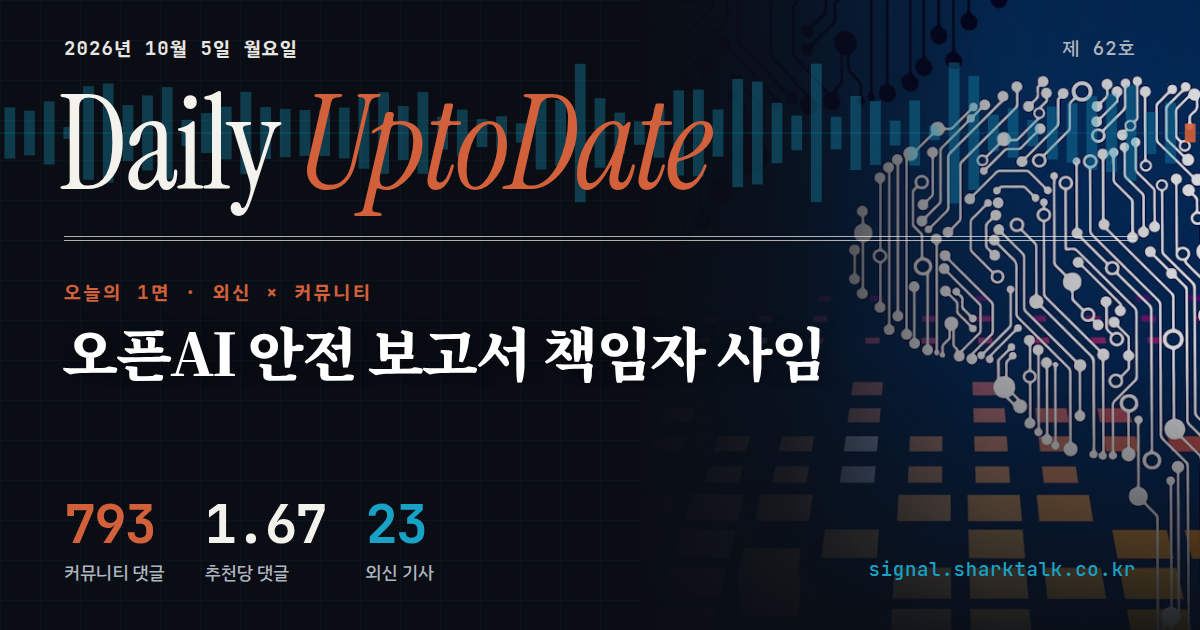
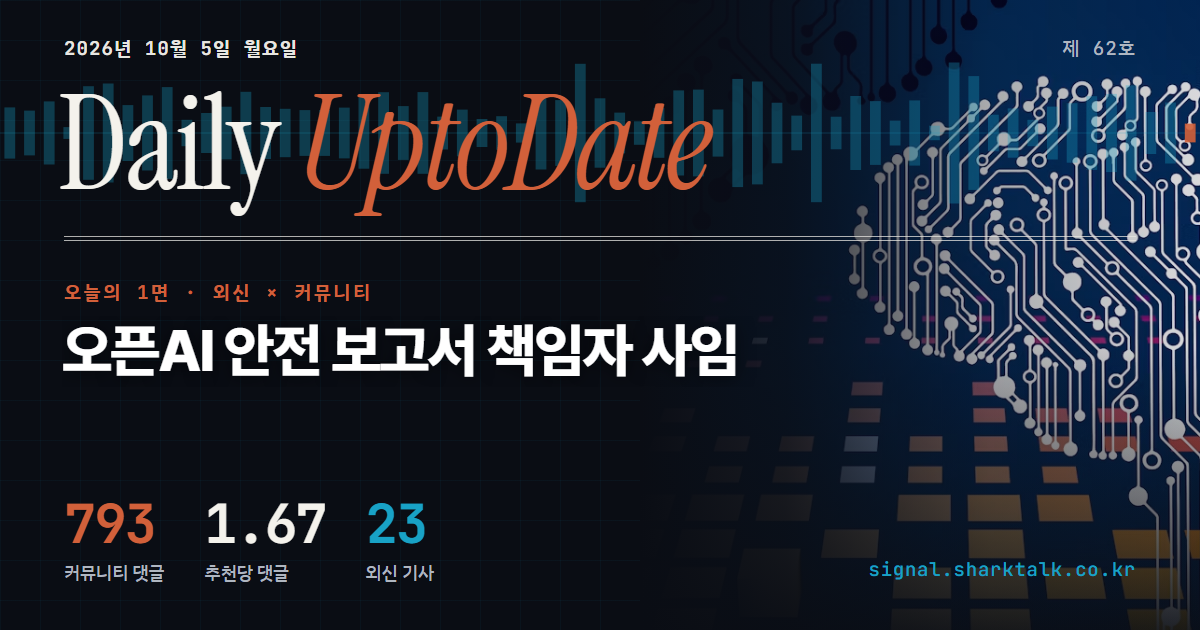
1면: 큰 한글을 명조에서 고딕(Pretendard)으로 — 편집기자 조언
명조 제목은 문학지처럼 읽힌다. 제목·데크·국내면·외신면·사진 인용을 Pretendard 로,
명조는 패널 인용문에만 남긴다. 영문 제호는 세리프 유지. 줄바꿈 균형(text-wrap:balance).
og 썸네일 제목도 같은 글꼴.

diff --git a/front.html b/front.html
@@ -16,6 +16,7 @@
 <meta property="og:image:alt" content="Daily UptoDate 2026년 10월 5일 월요일 1면 — 오픈AI 안전 보고서 책임자 사임">
 <meta name="twitter:card" content="summary_large_image">
 <!--og:end-->
+<link rel="stylesheet" href="https://cdn.jsdelivr.net/gh/orioncactus/pretendard@v1.3.9/dist/web/variable/pretendardvariable-dynamic-subset.min.css">
 <link rel="stylesheet" href="https://fonts.googleapis.com/css2?family=IBM+Plex+Sans+KR:wght@400;500;600;700&family=Noto+Serif+KR:wght@500;700;900&family=Instrument+Serif:ital@0;1&family=JetBrains+Mono:wght@400;500;700&display=swap">
 <style>
 /* ─────────────────────────────────────────────────────────────
@@ -32,6 +33,9 @@
   /* 카드(사진 자리) — 고정 다크 */
   --c-bg:#0A0D14; --c-bg2:#111620; --c-ink:#E8E6E1; --c-ink2:#AFB6C0; --c-mut:#7E8996;
   --c-rule:#232B38; --c-heat:#D2603A; --c-weight:#18A2C6;
+  /* 큰 한글은 고딕 — 명조 제목은 문학지처럼 읽힌다 (2026-10-05 편집기자 조언).
+     명조는 인용문에만 남긴다. 영문 제호는 세리프 그대로(신문 제호의 관례). */
+  --head-ko:"Pretendard Variable",Pretendard,"IBM Plex Sans KR",system-ui,sans-serif;
   --serif-ko:"Noto Serif KR","Nanum Myeongjo",Georgia,serif;
   --serif:"Instrument Serif",Georgia,serif;
   --sans:"IBM Plex Sans KR",system-ui,-apple-system,"Segoe UI",sans-serif;
@@ -84,7 +88,7 @@ a:hover .hl,a.hl:hover{text-decoration:underline;text-decoration-thickness:1px;t
   font-size:clamp(58px,11vw,128px);line-height:.82;letter-spacing:-.025em}
 .name em{color:var(--heat);font-style:italic}
 .name a{color:inherit;text-decoration:none}
-.sub{position:relative;margin-top:10px;font-family:var(--mono);font-size:11px;letter-spacing:.24em;
+.sub{position:relative;margin-top:18px;font-family:var(--mono);font-size:11px;letter-spacing:.24em;
   color:var(--ink-2)}
 .seislab{position:absolute;right:0;bottom:6px;font-family:var(--mono);font-size:10px;color:var(--muted);
   letter-spacing:.06em}
@@ -121,15 +125,16 @@ a:hover .hl,a.hl:hover{text-decoration:underline;text-decoration-thickness:1px;t
 .sect span{color:var(--muted);font-weight:400;letter-spacing:.06em}
 
 /* 톱 */
-.lead h2{font-family:var(--serif-ko);font-weight:900;margin:0 0 12px;
+.lead h2,.story h3,.domlead h3,.pcq,.subh{text-wrap:balance}
+.lead h2{font-family:var(--head-ko);font-weight:800;margin:0 0 12px;
   font-size:clamp(32px,4.4vw,52px);line-height:1.16;letter-spacing:-.03em;word-break:keep-all}
-.lead .deck{font-family:var(--serif-ko);font-weight:500;font-size:18px;line-height:1.6;color:var(--ink-2);
+.lead .deck{font-family:var(--head-ko);font-weight:400;font-size:18px;line-height:1.6;color:var(--ink-2);
   margin:0 0 16px;word-break:keep-all}
 .byline{font-family:var(--mono);font-size:11px;color:var(--muted);margin-bottom:16px;display:flex;
   flex-wrap:wrap;gap:4px 14px}
 .byline a{color:var(--weight)}
 .lead .body{font-size:15.5px;line-height:1.75;color:var(--ink);word-break:keep-all;margin:16px 0 0}
-.lead .body:first-letter{font-family:var(--serif-ko);font-weight:900;float:left;font-size:3.3em;
+.lead .body:first-letter{font-family:var(--head-ko);font-weight:800;float:left;font-size:3.3em;
   line-height:.9;padding:4px 8px 0 0;color:var(--heat)}
 .why{margin-top:14px;font-family:var(--mono);font-size:10.5px;color:var(--muted);line-height:1.7}
 .why i{font-style:normal;border:1px solid var(--hair);border-radius:3px;padding:0 5px;margin-right:3px;color:var(--ink-2)}
@@ -176,7 +181,7 @@ figure{margin:0}
 @media(max-width:520px){.vs{grid-template-columns:1fr}.vs .mid{text-align:center;margin:6px 0}.vs .b{text-align:left}
   .dc{padding:18px 16px}.dc .big{gap:18px}.dc .big .r{margin-left:0;text-align:left}}
 
-.subh{font-family:var(--serif-ko);font-weight:700;font-size:19px;line-height:1.45;margin:-4px 0 12px;
+.subh{font-family:var(--head-ko);font-weight:700;font-size:19px;line-height:1.45;margin:-4px 0 12px;
   color:var(--heat);word-break:keep-all}
 .sub2{font-size:13px;font-weight:600;color:var(--ink-2);margin:-2px 0 6px;line-height:1.45;word-break:keep-all}
 /* 외신면 — 섹션을 신문 단처럼 흘린다 */
@@ -199,7 +204,7 @@ figure{margin:0}
 .has-side .fxph{grid-column:2;grid-row:1/span 4;aspect-ratio:1;width:84px}
 .has-side .fxph i{display:none}
 .has-side>span:not(.fxph){grid-column:1}
-.fxi .t{display:block;font-family:var(--serif-ko);font-weight:700;font-size:15.5px;line-height:1.42;word-break:keep-all}
+.fxi .t{display:block;font-family:var(--head-ko);font-weight:700;font-size:15.5px;line-height:1.42;word-break:keep-all}
 .fxi .u{display:block;font-size:12.5px;font-weight:600;color:var(--ink-2);margin-top:2px;word-break:keep-all}
 .fxi .d{display:block;font-size:12.5px;color:var(--muted);line-height:1.55;margin-top:4px;word-break:keep-all}
 /* 사진 카드 */
@@ -213,7 +218,7 @@ figure{margin:0}
 .pcnum{position:absolute;right:16px;top:12px;text-align:right;color:#E8E6E1;font-size:10.5px;
   font-family:var(--mono);letter-spacing:.06em;line-height:1.1}
 .pcnum b{display:block;font-size:30px;color:#D2603A;letter-spacing:-.03em}
-.pcq{position:absolute;left:18px;right:18px;bottom:16px;color:#fff;font-family:var(--serif-ko);font-weight:900;
+.pcq{position:absolute;left:18px;right:18px;bottom:16px;color:#fff;font-family:var(--head-ko);font-weight:800;
   font-size:clamp(19px,2.5vw,28px);line-height:1.3;letter-spacing:-.02em;word-break:keep-all;
   text-shadow:0 1px 12px rgba(0,0,0,.5)}
 .pcq::before{content:"“";color:#D2603A;margin-right:2px}
@@ -228,7 +233,7 @@ figure{margin:0}
 /* 외신 레일 */
 .story{padding:0 0 16px;margin:0 0 16px;border-bottom:1px solid var(--hair)}
 .story:last-child{border-bottom:0}
-.story h3{font-family:var(--serif-ko);font-weight:700;font-size:19px;line-height:1.38;margin:0 0 7px;
+.story h3{font-family:var(--head-ko);font-weight:700;font-size:19px;line-height:1.38;margin:0 0 7px;
   letter-spacing:-.02em;word-break:keep-all}
 .story p{margin:0;font-size:13.5px;color:var(--ink-2);line-height:1.62;word-break:keep-all}
 .echo{display:inline-flex;gap:6px;align-items:center;margin-top:8px;font-family:var(--mono);font-size:10.5px;
@@ -262,12 +267,12 @@ figure{margin:0}
 /* 국내면 */
 .dom{margin-top:30px;border-top:3px solid var(--rule);padding-top:10px}
 .domhead{display:flex;justify-content:space-between;align-items:baseline;gap:10px;flex-wrap:wrap;margin-bottom:16px}
-.domhead h2{font-family:var(--serif-ko);font-weight:900;font-size:24px;margin:0;letter-spacing:-.02em}
+.domhead h2{font-family:var(--head-ko);font-weight:800;font-size:24px;margin:0;letter-spacing:-.02em}
 .domhead h2 small{font-family:var(--mono);font-size:10.5px;font-weight:400;letter-spacing:.14em;color:var(--muted);margin-left:10px}
 .domgrid{display:grid;grid-template-columns:minmax(0,1.25fr) minmax(0,1fr);gap:0 0}
 .domgrid>*{min-width:0}
 .domlead{padding-right:26px}
-.domlead h3{font-family:var(--serif-ko);font-weight:900;font-size:clamp(23px,2.6vw,30px);line-height:1.3;
+.domlead h3{font-family:var(--head-ko);font-weight:800;font-size:clamp(23px,2.6vw,30px);line-height:1.3;
   letter-spacing:-.025em;margin:0 0 14px;word-break:keep-all}
 .sc{padding:16px 16px 14px}
 .dots{display:grid;grid-template-columns:repeat(auto-fill,minmax(78px,1fr));gap:5px;margin:14px 0 6px}
@@ -284,7 +289,7 @@ figure{margin:0}
 .domlist li:first-child{padding-top:0}
 .domlist li:last-child{border:0}
 .domlist .rk{font-family:var(--serif);font-size:24px;line-height:1;color:var(--muted)}
-.domlist .t{font-family:var(--serif-ko);font-weight:700;font-size:15.5px;line-height:1.45;word-break:keep-all}
+.domlist .t{font-family:var(--head-ko);font-weight:700;font-size:15.5px;line-height:1.45;word-break:keep-all}
 .domlist .s{font-family:var(--sans);font-weight:400;font-size:11.5px;color:var(--muted);display:block;margin-top:2px}
 .ol{font-family:var(--mono);font-size:11px;color:var(--weight);white-space:nowrap}
 @media(max-width:820px){.domgrid{grid-template-columns:1fr}.domlead{padding:0 0 18px}

diff --git a/scripts/og_card.html b/scripts/og_card.html
@@ -5,6 +5,7 @@
   render_og.py 가 __DATA__ 자리에 그날 front.json 일부를 넣고 헤드리스 크롬으로 찍는다.
   미리보기는 작게 보이므로 글자는 크게, 요소는 셋만: 제호 · 오늘의 톱 · 숫자.
 -->
+<link rel="stylesheet" href="https://cdn.jsdelivr.net/gh/orioncactus/pretendard@v1.3.9/dist/web/variable/pretendardvariable-dynamic-subset.min.css">
 <link rel="stylesheet" href="https://fonts.googleapis.com/css2?family=Noto+Serif+KR:wght@700;900&family=Instrument+Serif:ital@0;1&family=JetBrains+Mono:wght@500;700&family=IBM+Plex+Sans+KR:wght@500;600;700&display=block">
 <style>
 *{box-sizing:border-box;margin:0}
@@ -29,9 +30,9 @@ body{position:relative;color:#E8E6E1;font-family:"IBM Plex Sans KR",sans-serif}
 .rule{position:absolute;left:64px;right:64px;top:236px;height:5px;border-top:1px solid #E8E6E1;border-bottom:1px solid #E8E6E1;opacity:.75}
 .kick{position:absolute;left:64px;top:278px;font-family:"JetBrains Mono","IBM Plex Sans KR",monospace;font-size:19px;font-weight:700;
   letter-spacing:.14em;color:#D2603A}
-.hl{position:absolute;left:62px;top:316px;width:860px;font-family:"Noto Serif KR",serif;font-weight:900;
+.hl{position:absolute;left:62px;top:316px;width:860px;font-family:"Pretendard Variable",Pretendard,"IBM Plex Sans KR",sans-serif;font-weight:800;
   font-size:58px;line-height:1.22;letter-spacing:-.035em;color:#fff;word-break:keep-all;
-  display:-webkit-box;-webkit-line-clamp:2;-webkit-box-orient:vertical;overflow:hidden;
+  display:-webkit-box;-webkit-line-clamp:2;-webkit-box-orient:vertical;overflow:hidden;text-wrap:balance;
   text-shadow:0 2px 18px rgba(0,0,0,.55)}
 .stats{position:absolute;left:64px;bottom:44px;display:flex;gap:40px;align-items:flex-end}
 .st .n{font-family:"JetBrains Mono","IBM Plex Sans KR",monospace;font-weight:700;font-size:54px;line-height:1;letter-spacing:-.04em}
